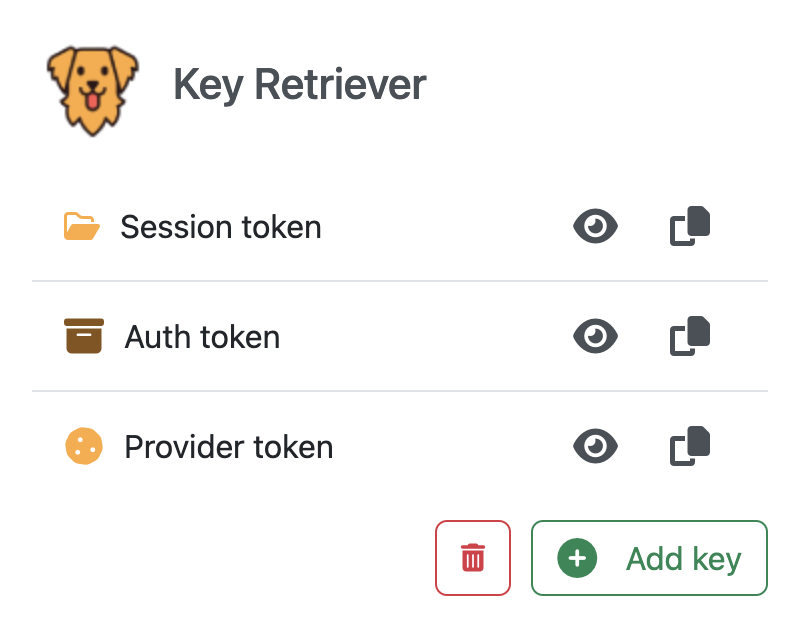
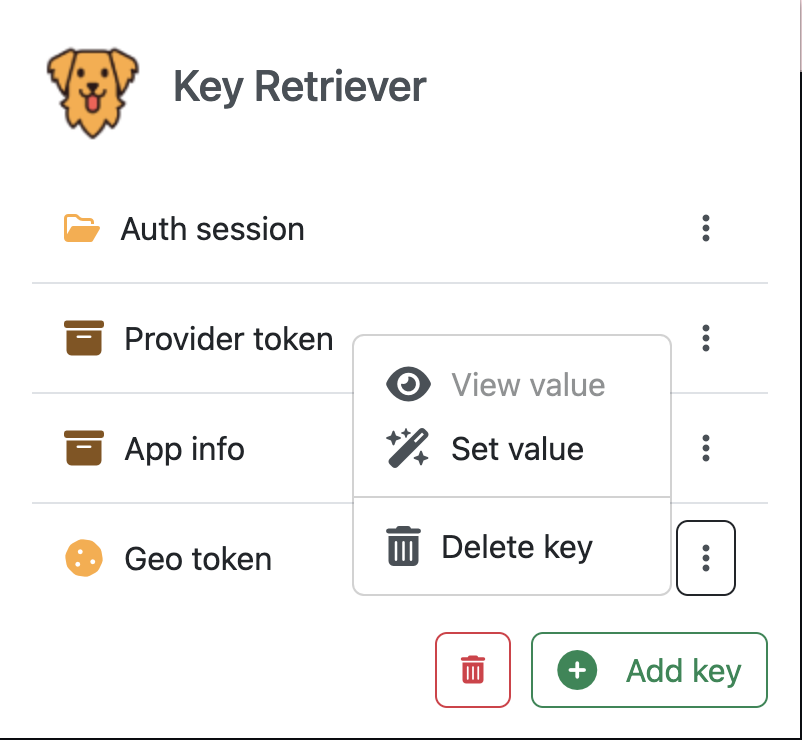
chore: update readme

diff --git a/README.md b/README.md
@@ -1,17 +1,17 @@
 ![logo](https://repository-images.githubusercontent.com/658112380/1ca66916-3b00-43e2-84fd-9e1379a3d7bb)
 # extension-chrome-key-retriever
 
-This extension allows to watch keys stored.
-For more complex properties, you can select a subkey to watch.
+This extension allows to watch keys stored and set new values.
+For more complex properties, you can select a subkey to watch and/or set a value.
 
 <img width="399" alt="image" src="/docs/preview.png">
 (the preview might not be up to date)
 
 ## Supported keys
 
-- local storage
-- session storage
-- cookies
+- Local storage
+- Session storage
+- Cookies
   - including HTTP only cookies
 
 ## Installation
